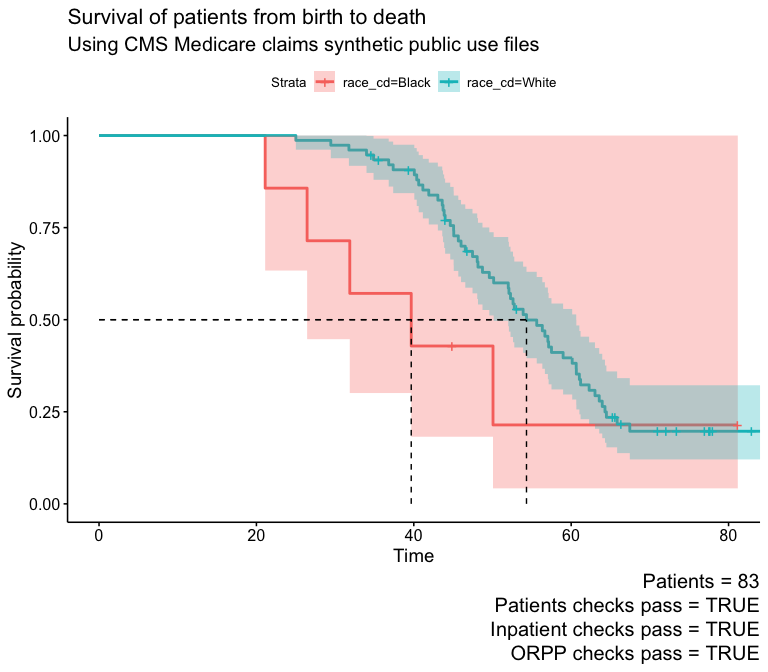
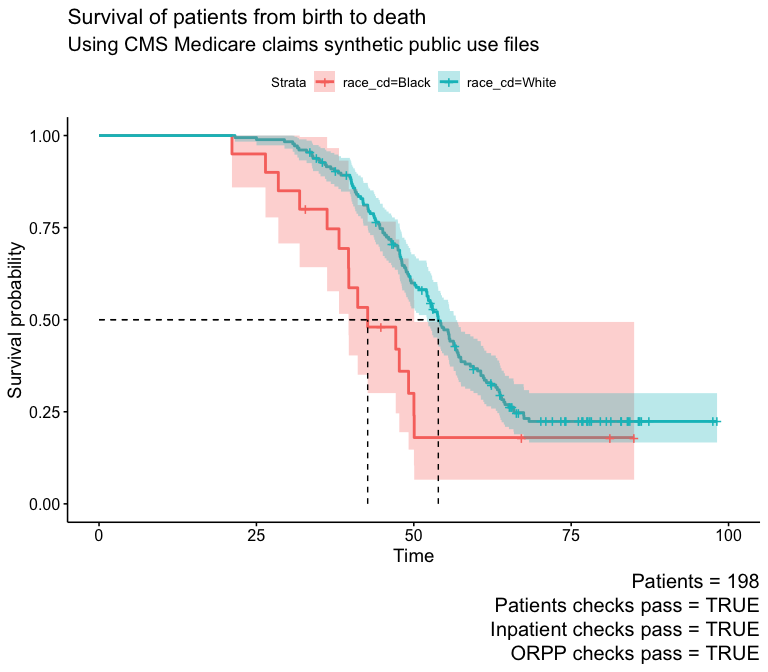
cleanup. minor bug fix in vignette

diff --git a/demo.md b/demo.md
@@ -96,11 +96,10 @@ tables_02_etl_02 <- tables_02 %>%
 |:----------------------------------|------:|----------:|
 | Everyone                          | 10000 |        NA |
 | Race is white or black            |  9323 |      -677 |
-| Is Male                           |  4136 |     -5187 |
-| Has Diabetes                      |  1526 |     -2610 |
-| Has at least 1000 inpatient costs |   268 |     -1258 |
-| Median prescription cost is \> 50 |    83 |      -185 |
-| 18 years of age or older          |    83 |         0 |
+| Has Diabetes                      |  3605 |     -5718 |
+| Has at least 1000 inpatient costs |   610 |     -2995 |
+| Median prescription cost is \> 50 |   199 |      -411 |
+| 18 years of age or older          |   198 |        -1 |
 
 ## Attrition Plot
 
